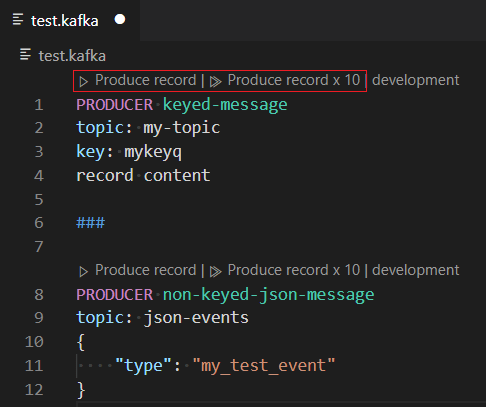
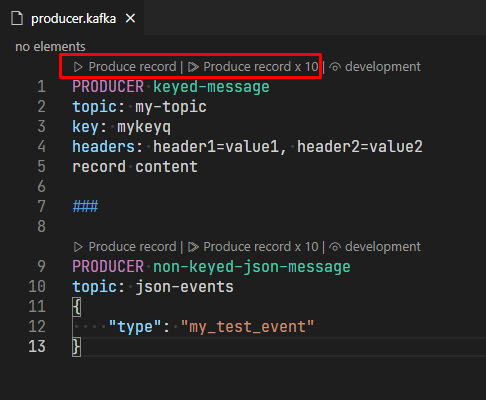
fix: review's comments

diff --git a/src/commands/producers.ts b/src/commands/producers.ts
@@ -58,8 +58,8 @@ export class ProduceRecordCommandHandler {
 
             const messages = [...Array(times).keys()].map(() => {
 
-                let messageHeaders: IHeaders = {}
-                headers.forEach((val, idx) => {
+                const messageHeaders: IHeaders = {}
+                headers?.forEach((val, idx) => {
                     messageHeaders[idx] = val;
                 });
                 

diff --git a/src/client/producer.ts b/src/client/producer.ts
@@ -185,7 +185,7 @@ export interface ProducerInfoUri {
     topicId?: string;
     key?: string;
     value?: string;
-    headers: Map<string, string>;
+    headers?: Map<string, string>;
 }
 
 const TOPIC_QUERY_PARAMETER = 'topic';

diff --git a/docs/Producing.md b/docs/Producing.md
@@ -6,6 +6,7 @@ Define simple producers in a [.kafka](KafkaFile.md#kafkafile) file, using the fo
 PRODUCER keyed-message
 topic: my-topic
 key: mykeyq
+headers: header1=value1, header2=value2
 record content
 
 ###
@@ -28,6 +29,7 @@ The `PRODUCER` block defines:
  * `keyed message` which is declared after PRODUCER *[optional]*.
  * `key`: the key *[optional]*.
  * `key-format` : [serializer](#Serializer) to use for the key *[optional]*.
+ * `headers`: the headers of message comma separated list in format `key=value` *[optional]*
  * `value-format` : [serializer](#Serializer) to use for the value *[optional]*.
  
  * the rest of the content is the value until `###`.
@@ -99,7 +101,7 @@ Here is an example of hover on topic:
 
 Record content can be randomized by injecting mustache-like placeholders of [faker.js properties](https://github.com/Marak/faker.js#api-methods), like ``{{name.lastName}}`` or ``{{random.number}}``. Some randomized properties can be localized via the `kafka.producers.fakerjs.locale` setting.
 
-The same seed is used for randomizing the key and the value, so the same randomized content can be injected in both places, as long as the same field is injected first in the message body.
+The same seed is used for randomizing the key, the headers and the value, so the same randomized content can be injected in all places, as long as the same field is injected first in the message body.
 
 For instance:
 
@@ -110,6 +112,7 @@ For instance:
 
 PRODUCER keyed-message
 topic: fakerjs-topic
+headers: messageId={{random.uuid}}
 key: dept-{{random.number(5)}}
 {
     "dept":"{{random.number(5)}}",

diff --git a/CHANGELOG.md b/CHANGELOG.md
@@ -1,6 +1,10 @@
 # Change Log
 All notable changes to `Tools for Apache Kafka®` are documented in this file.
 
+## [0.14.0]
+### Added
+- Send and print headers of message. See [#209](https://github.com/jlandersen/vscode-kafka/pull/209)
+
 ## [0.13.0] - 2021-07-27
 ### Added
 - Show cluster state in kafka file. See [#175](https://github.com/jlandersen/vscode-kafka/pull/175).

diff --git a/docs/Consuming.md b/docs/Consuming.md
@@ -130,3 +130,7 @@ Consumers are based on virtual documents, available in the VS Code extension API
 ### `kafka.consumers.offset`
 
 You can configure start offset for new consumers in settings (earliest, latest).
+
+### `kafka.consumers.headers.print`
+
+You can configure printing headers of message to view in settings (default: false).
